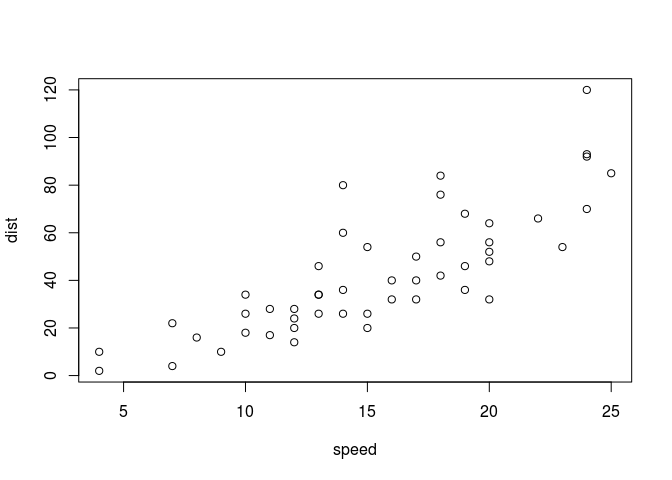
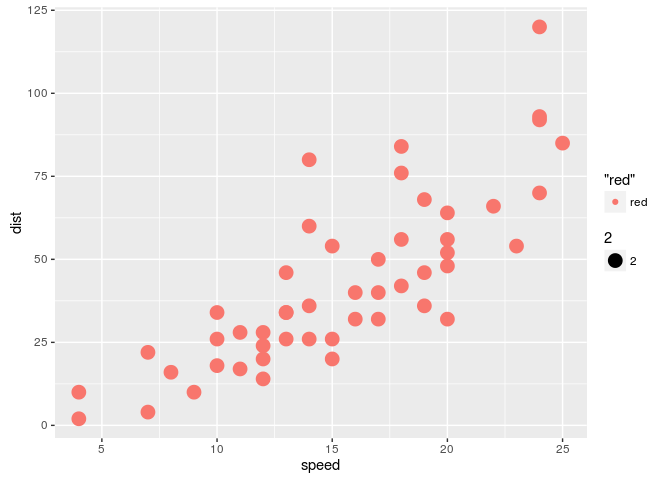
readme file

diff --git a/spatial-analysis/ReadMe.md b/spatial-analysis/ReadMe.md
@@ -18,7 +18,10 @@ chunks within the document. You can embed an R code chunk like this:
 
 You can also embed plots, for example:
 
-    plot(cars)
+    suppressPackageStartupMessages(library(ggplot2))
+    suppressPackageStartupMessages(library(plotly))
+    p <- ggplot(data = cars, aes(x = speed, y = dist)) + geom_point(aes(color = "red", cex = 2))
+    p
 
 ![](ReadMe_files/figure-markdown_strict/unnamed-chunk-2-1.png)
 
